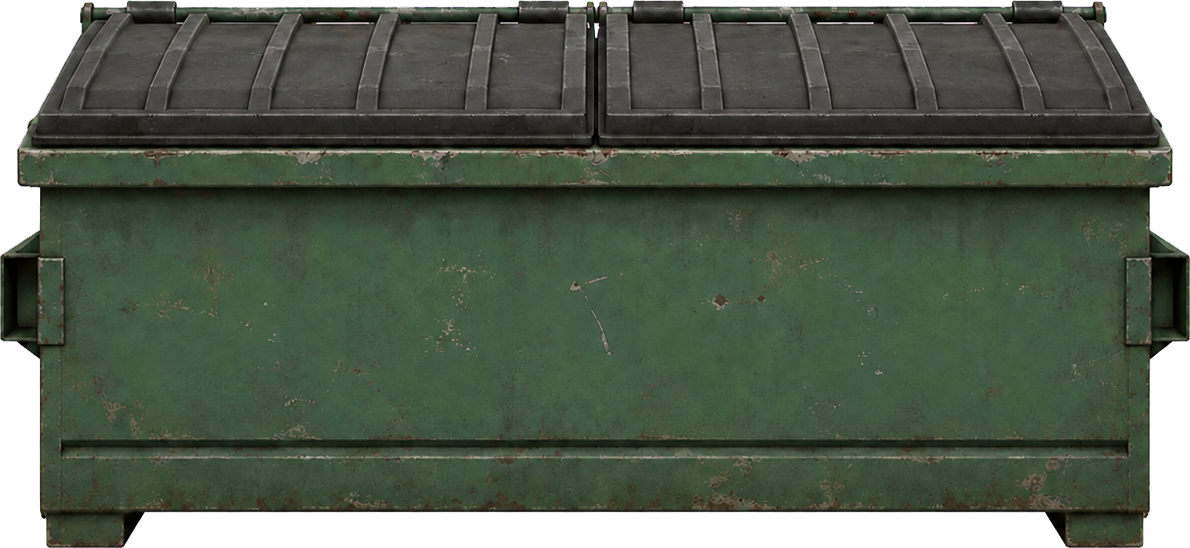
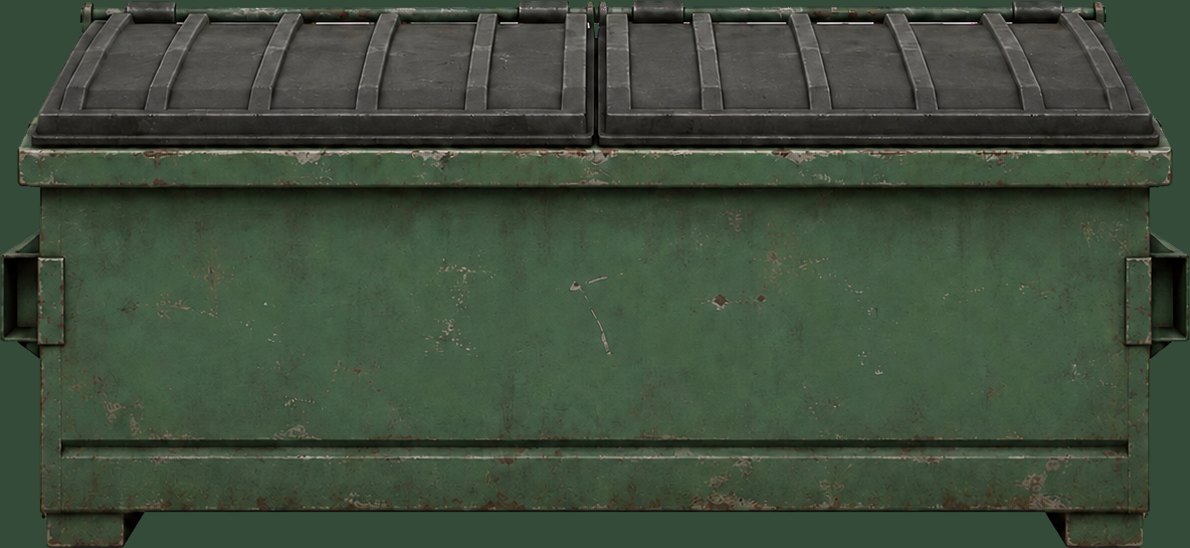
Make dumpster face fully opaque

Changed region(s): [[0.0, 0.0, 1.0, 1.0], [0.0, 0.0, 0.4353, 0.4653]]

diff --git a/tests/dumpster_pilot_authoring_verify.js b/tests/dumpster_pilot_authoring_verify.js
@@ -15,8 +15,11 @@ const tiledPath = path.join(root, 'authoring', 'levels', 'dumpster-pilot', 'dump
 
 const sourcePng = PNG.sync.read(fs.readFileSync(facePath));
 let minX = sourcePng.width, minY = sourcePng.height, maxX = -1, maxY = -1;
+let nonOpaquePixels = 0;
 for (let y = 0; y < sourcePng.height; y += 1) for (let x = 0; x < sourcePng.width; x += 1) {
-  if (sourcePng.data[(y * sourcePng.width + x) * 4 + 3] > 16) {
+  const alpha = sourcePng.data[(y * sourcePng.width + x) * 4 + 3];
+  if (alpha !== 255) nonOpaquePixels += 1;
+  if (alpha > 16) {
     minX = Math.min(minX, x); minY = Math.min(minY, y);
     maxX = Math.max(maxX, x); maxY = Math.max(maxY, y);
   }
@@ -25,6 +28,7 @@ assert.equal(minX, 0, 'dumpster face must be tightly cropped at the left edge');
 assert.equal(minY, 0, 'dumpster face must be tightly cropped at the top edge');
 assert.equal(maxX, sourcePng.width - 1, 'dumpster face must be tightly cropped at the right edge');
 assert.equal(maxY, sourcePng.height - 1, 'dumpster face must be tightly cropped at the bottom edge');
+assert.equal(nonOpaquePixels, 0, 'dumpster face must be fully opaque; short geometry provides its height');
 
 const compiled = compileBuilding(buildingDir);
 assert.equal(compiled.asset.id, 'dumpster_001');

diff --git a/authoring/README.md b/authoring/README.md
@@ -23,7 +23,7 @@ The primary manifest is:
 
 The compiler derives front/back and side atlas slices from that one PNG. The west face reuses east without mirroring. Optional directional overrides may be added later under `faces`.
 
-`heightScale` is optional and defaults to `1`. For low objects such as `dumpster_001`, set it to `0.5` and supply tightly cropped art. The renderer anchors the short face at the wall-floor position, so no transparent upper-half padding is needed.
+`heightScale` is optional and defaults to `1`. For low objects such as `dumpster_001`, set it to `0.5` and supply a tightly cropped, fully opaque face. The renderer anchors the short face at the wall-floor position, so no transparent upper-half padding or cutout is needed.
 
 Short imported buildings still occupy their full grid footprint for collision. Their renderer tracks the real top edge, so sprites behind a short building can remain visible above it while full-height buildings keep their existing occlusion behavior.
 